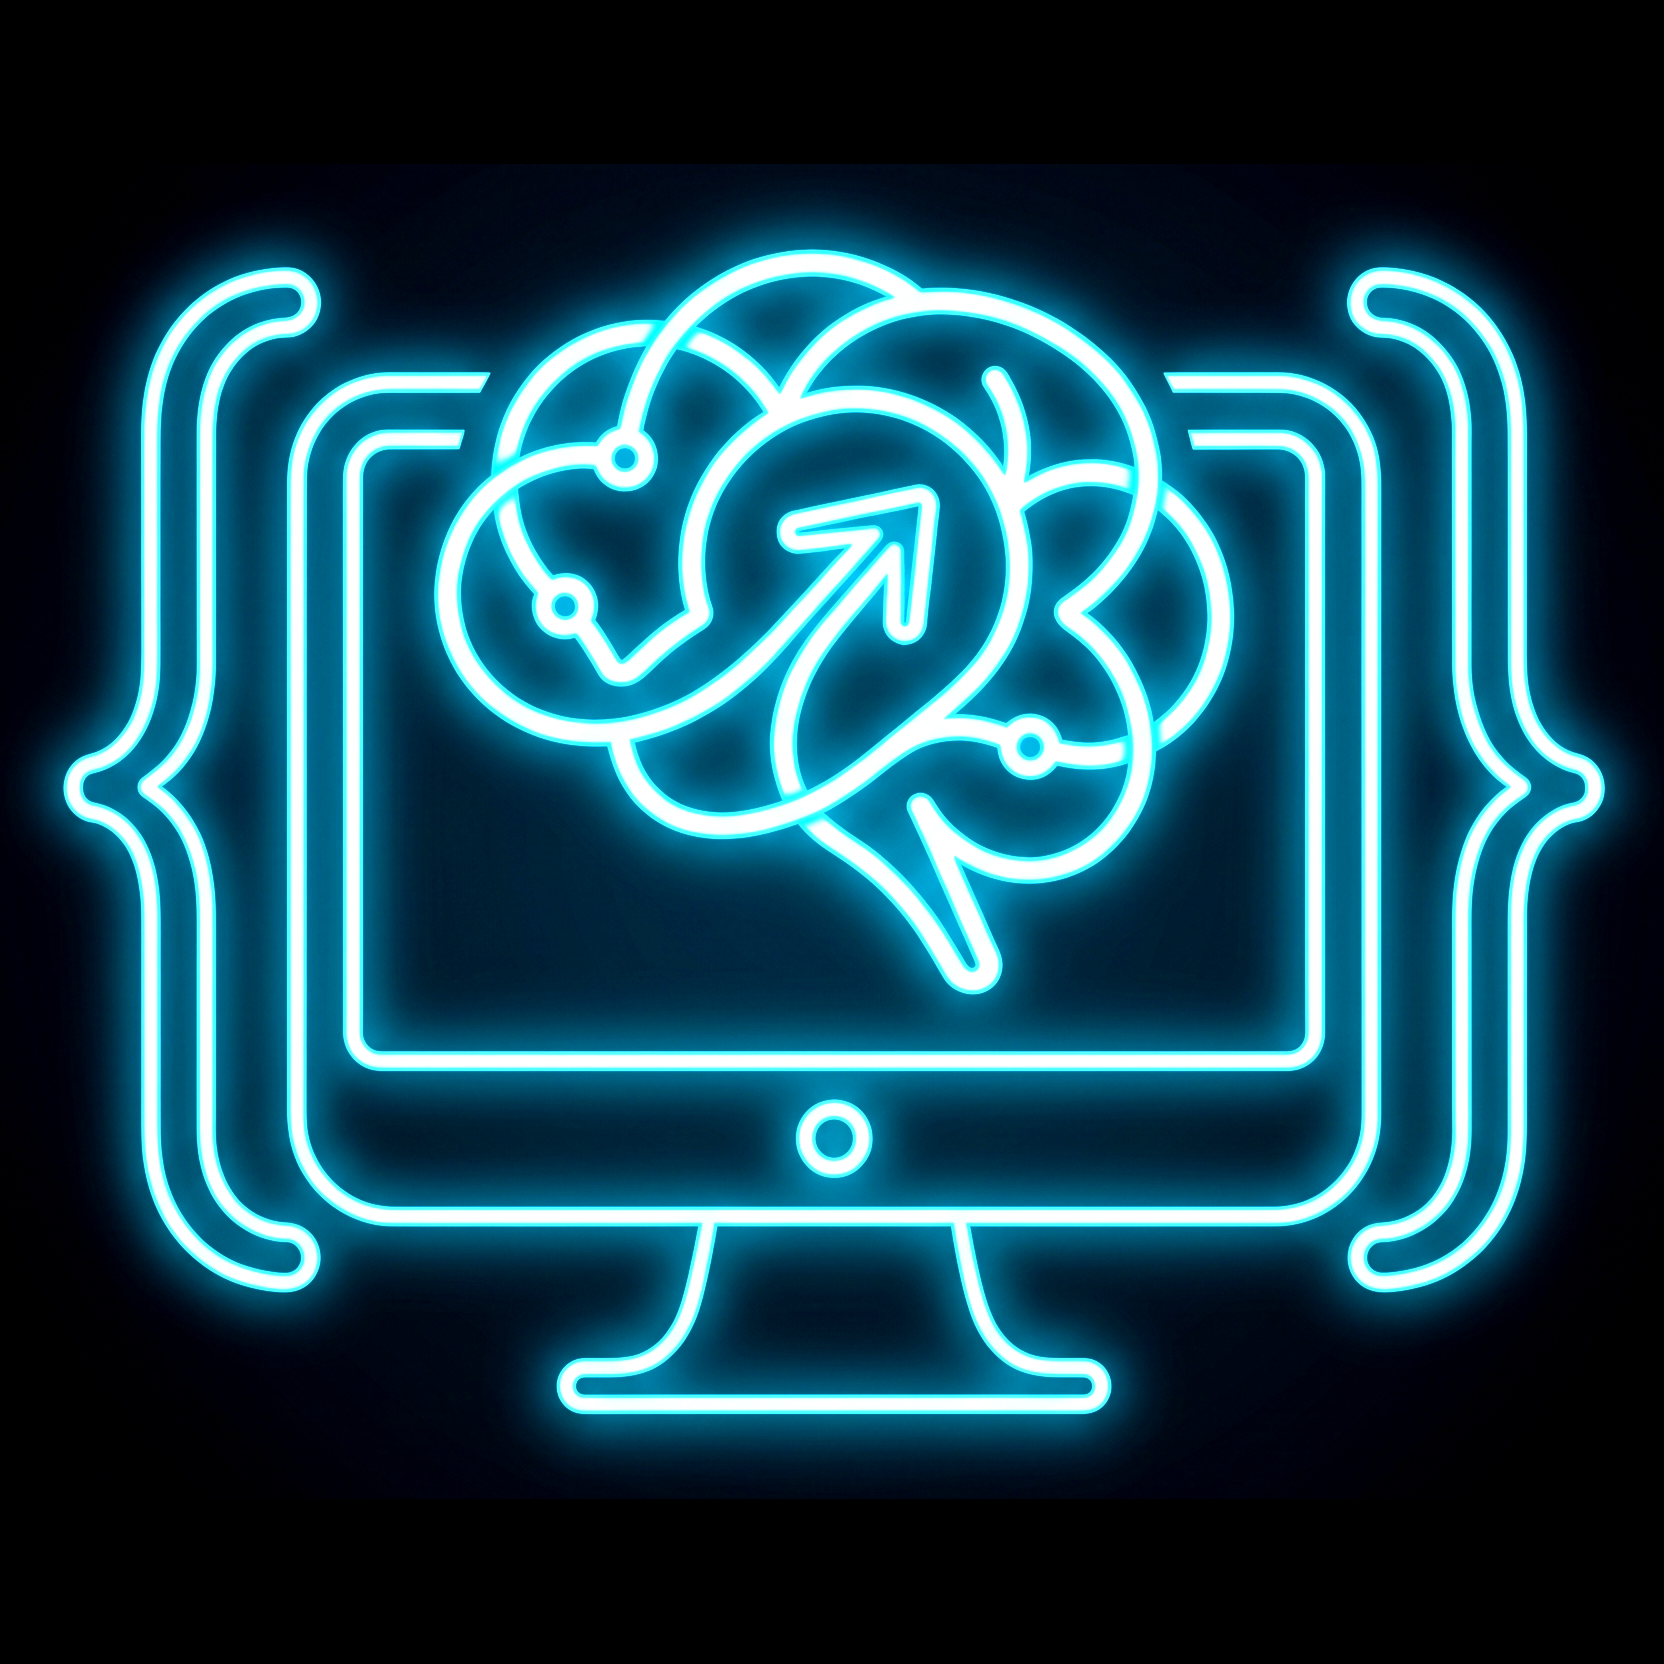
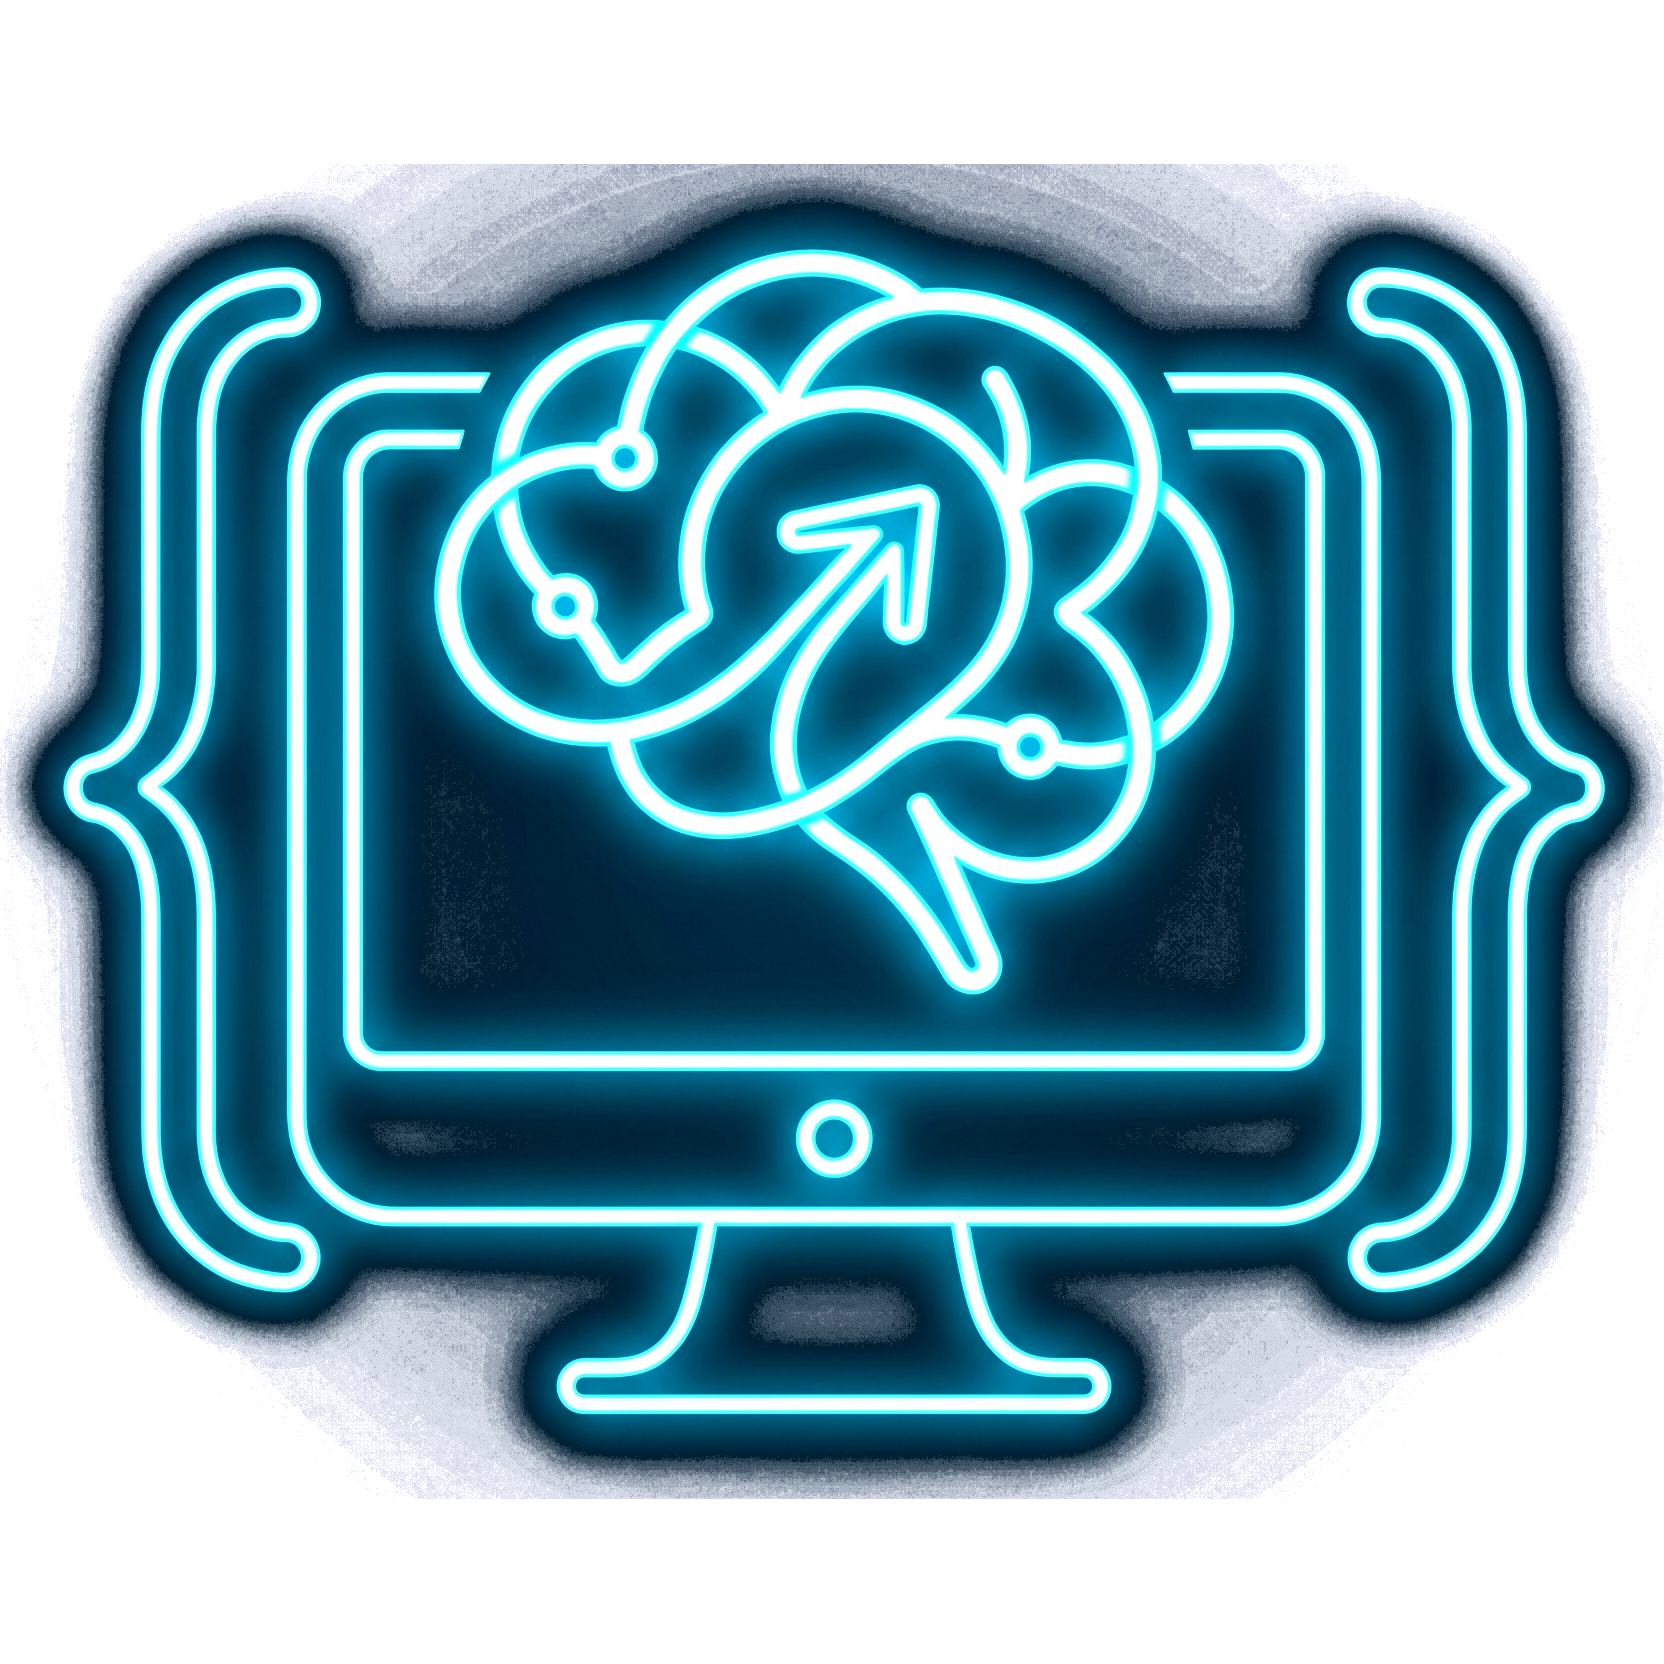
Some minor improvements and upgrades

diff --git a/scripts/brand_kasmvnc.py b/scripts/brand_kasmvnc.py
@@ -330,6 +330,10 @@ browser_actions_script = (
     '    if (!localStorage.getItem("video_quality") || localStorage.getItem("video_quality") === "2") {\n'
     '        localStorage.setItem("video_quality", "3");\n'
     '    }\n'
+    '    // Force "Native Resolution" display mode (resize=remote) by default\n'
+    '    if (!localStorage.getItem("resize")) {\n'
+    '        localStorage.setItem("resize", "remote");\n'
+    '    }\n'
     '} catch(e) {}\n'
     '// Heartbeat keep-alive every 10 seconds to prevent reverse proxy (Nginx, Traefik, Cloudflare) idle timeouts\n'
     'setInterval(function() {\n'

diff --git a/README.md b/README.md
@@ -43,6 +43,7 @@ VisualVibe Agent/
 ├── media/
 │   ├── visualvibe_icon.png        # Official high-contrast square logo & icon
 │   ├── visualvibe_horizontal.png  # High-contrast horizontal banner (sidebar logo)
+│   ├── visualvibe_biglogo.jpg     # Full VisualVibe Agent neon banner (README header)
 │   ├── favicon.ico                # Multi-layer Windows / browser tab favicon
 │   └── favicon_*.png              # Multi-resolution favicons (16x16 to 192x192)
 ├── scripts/
@@ -133,8 +134,81 @@ podman logs -f visualvibe-agent
 
 ---
 
-## 🛡 Security Model
+## 🛡 Security & Reverse Proxy Configuration
 
-- **Perimeter Security**: Container services (KasmVNC and FileBrowser) run without internal authentication to optimize performance and prevent double-login friction. Access should be secured via **Cloudflare Zero Trust / Access**, a reverse proxy with OAuth2/mTLS, or a private VPN (Tailscale/WireGuard).
-- **Least Privilege**: The inner environment executes under UID `1000` (`vvagent`). Nested rootless Podman isolates containers run inside the development environment.
+### Internal Ports
+
+VisualVibe Agent exposes **two HTTP services** without built-in authentication:
+
+| Service | Container Port | Protocol | Description |
+|---|---|---|---|
+| **VisualVibe Agent** (KasmVNC) | `8080` | HTTP + WebSocket | Web desktop (HTML5/WebSocket streaming) |
+| **VisualVibe FileBrowser** | `8081` | HTTP | Web file manager (upload/download) |
+
+> [!IMPORTANT]
+> Both services run **unauthenticated** by design. Authentication must be enforced at the perimeter via a reverse proxy with SSO/SAML/OAuth2.
+
+### Reverse Proxy Routing
+
+Configure your load balancer or reverse proxy to expose a single HTTPS domain:
+
+| Public URL | Backend Target | Notes |
+|---|---|---|
+| `https://<DOMAIN>/` | `http://<CONTAINER_IP>:8080/` | KasmVNC desktop — requires WebSocket upgrade |
+| `https://<DOMAIN>/filebrowser/` | `http://<CONTAINER_IP>:8081/filebrowser/` | FileBrowser Quantum — standard HTTP |
+
+#### WebSocket Requirements (KasmVNC)
+
+KasmVNC uses WebSocket for the VNC stream. Your reverse proxy **must** support WebSocket upgrades on the root path `/`. Example headers to set:
+
+```
+Upgrade: $http_upgrade
+Connection: "upgrade"
+```
+
+#### Nginx Example
+
+```nginx
+server {
+    listen 443 ssl;
+    server_name vvagent.example.com;
+
+    # SSO/SAML authentication (e.g. via Vouch, oauth2-proxy, or SAML SP module)
+    # auth_request /validate;
+
+    # VisualVibe Agent (KasmVNC) — WebSocket required
+    location / {
+        proxy_pass http://127.0.0.1:8080;
+        proxy_http_version 1.1;
+        proxy_set_header Upgrade $http_upgrade;
+        proxy_set_header Connection "upgrade";
+        proxy_set_header Host $host;
+        proxy_set_header X-Real-IP $remote_addr;
+        proxy_read_timeout 86400s;
+        proxy_send_timeout 86400s;
+    }
+
+    # VisualVibe FileBrowser
+    location /filebrowser/ {
+        proxy_pass http://127.0.0.1:8081/filebrowser/;
+        proxy_set_header Host $host;
+        proxy_set_header X-Real-IP $remote_addr;
+        client_max_body_size 10G;  # Allow large file uploads
+    }
+}
+```
+
+#### Cloudflare Zero Trust Example
+
+If using **Cloudflare Access** as the SSO layer:
+
+1. Create an **Access Application** for `vvagent.example.com` with your IdP (SAML, OIDC, GitHub, etc.)
+2. Create a **Cloudflare Tunnel** pointing to `http://localhost:8080` for the root path
+3. Add a second **public hostname rule**: `vvagent.example.com/filebrowser/*` → `http://localhost:8081`
+4. Cloudflare handles TLS termination, SSO enforcement, and WebSocket proxying natively
+
+### Security Model
+
+- **Perimeter Security**: All access control (SSO/SAML/OAuth2/mTLS) is enforced at the reverse proxy layer. Container services are deliberately unauthenticated to avoid double-login friction.
+- **Least Privilege**: The inner environment runs under UID `1000` (`vvagent`). Nested rootless Podman isolates containers run inside the development environment.
 - **VS Code Restart Opt-out**: To prevent VS Code from auto-restarting (e.g., to use the desktop without it), create the file `/tmp/.vscode_no_restart` inside the container.
